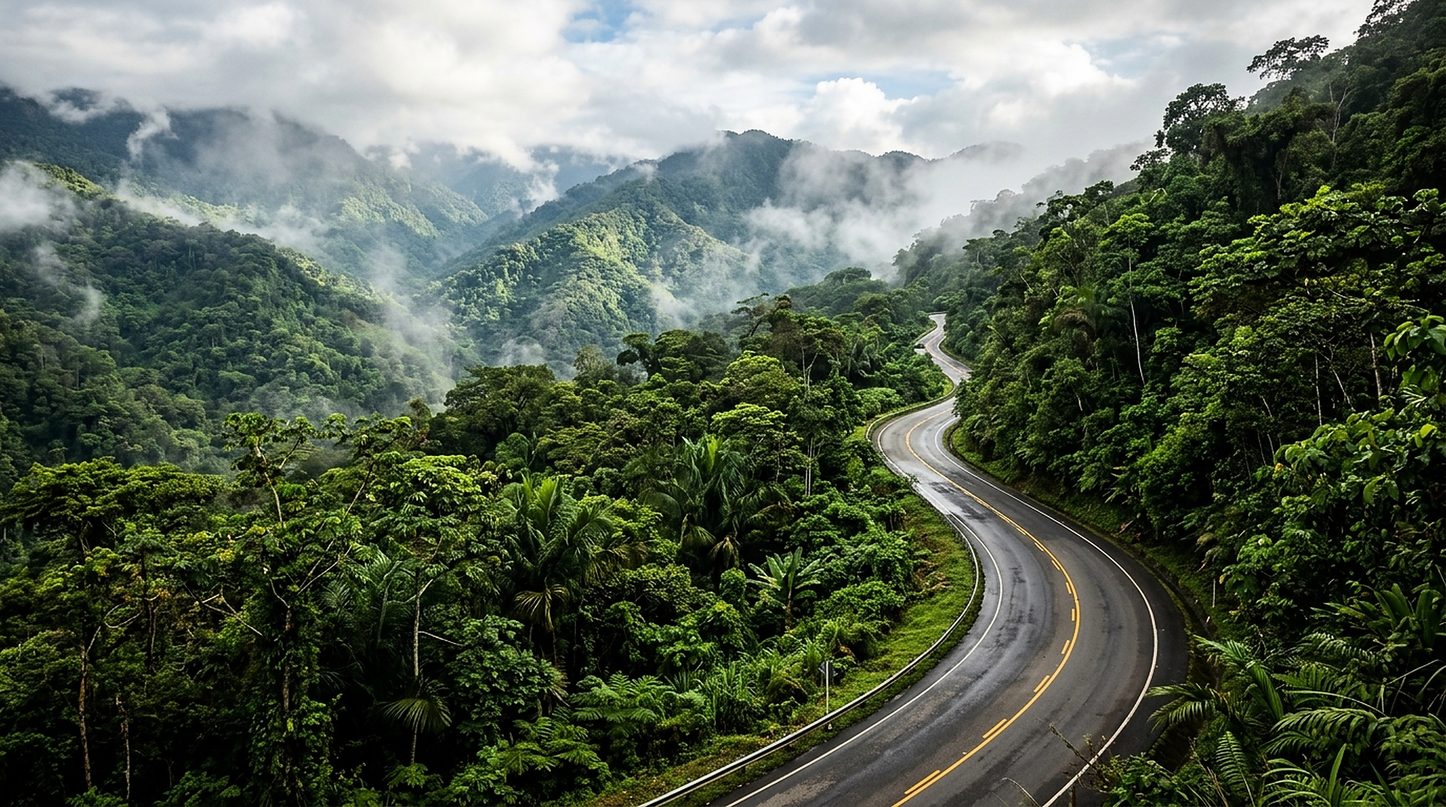
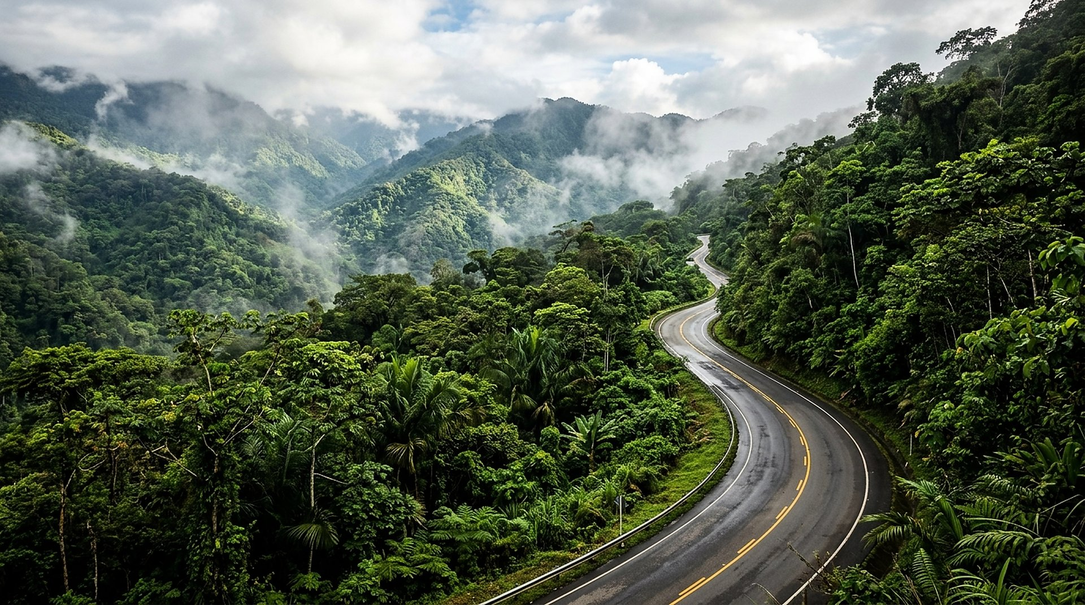
perf: optimize hero LCP image and prioritize catalog initial viewport cards
- Remove unoptimized and quality=100 on hero image; enable Next.js AVIF/WebP image optimization
- Pre-compress master hero image from 2.0MB to 540KB progressive JPEG
- Prioritize only first viewport vehicle cards (top 3 in catalog, top 2 in home) while keeping lazy loading for the rest
- Configure formats: ['image/avif', 'image/webp'] in next.config.ts

diff --git a/components/vehicle/VehicleCard.tsx b/components/vehicle/VehicleCard.tsx
@@ -14,10 +14,11 @@ import { StatusBadge } from '@/components/vehicle/StatusBadge'
 interface VehicleCardProps extends Omit<HTMLAttributes<HTMLDivElement>, 'children'> {
   vehicle: VehicleCardType
   variant?: 'default' | 'featured'
+  priority?: boolean
 }
 
 export const VehicleCard = forwardRef<HTMLDivElement, VehicleCardProps>(
-  ({ vehicle, variant = 'default', className, ...props }, ref) => {
+  ({ vehicle, variant = 'default', priority = false, className, ...props }, ref) => {
     // Currency context for price conversion
     const { currency, rates, isLoading: ratesLoading } = useCurrency()
 
@@ -63,7 +64,7 @@ export const VehicleCard = forwardRef<HTMLDivElement, VehicleCardProps>(
               fill
               sizes="(max-width: 640px) 100vw, (max-width: 1024px) 50vw, 33vw"
               className="object-contain p-2 transition-transform duration-200 group-hover:scale-[1.02]"
-              priority={vehicle.is_featured}
+              priority={priority || vehicle.is_featured}
             />
 
             {/* Badge de tipo de vehículo (Categoría) */}

diff --git a/components/home/TransactionalVehicleCatalog.tsx b/components/home/TransactionalVehicleCatalog.tsx
@@ -63,8 +63,6 @@ export function TransactionalVehicleCatalog({ vehicles }: TransactionalVehicleCa
             alt="Carretera asfaltada sin autos serpenteando en medio de la selva peruana y montañas verdes"
             fill
             priority
-            quality={100}
-            unoptimized
             sizes="100vw"
             className="object-cover object-[center_55%]"
           />
@@ -137,10 +135,11 @@ export function TransactionalVehicleCatalog({ vehicles }: TransactionalVehicleCa
           {/* Grid de Vehículos */}
           {filteredVehicles.length > 0 ? (
             <div className="grid grid-cols-1 sm:grid-cols-2 lg:grid-cols-3 gap-6 lg:gap-8">
-              {filteredVehicles.map((vehicle) => (
+              {filteredVehicles.map((vehicle, index) => (
                 <VehicleCard
                   key={vehicle.id}
                   vehicle={vehicle}
+                  priority={index < 2}
                 />
               ))}
             </div>

diff --git a/components/vehicle/VehicleGrid.tsx b/components/vehicle/VehicleGrid.tsx
@@ -58,11 +58,12 @@ export function VehicleGrid({ vehicles, 'aria-label': ariaLabel }: VehicleGridPr
       initial="hidden"
       animate="show"
     >
-      {vehicles.map((vehicle) => (
+      {vehicles.map((vehicle, index) => (
         <motion.li key={vehicle.id} variants={itemVariants}>
           <VehicleCard
             vehicle={vehicle}
             variant={vehicle.is_featured ? 'featured' : 'default'}
+            priority={index < 3}
           />
         </motion.li>
       ))}

diff --git a/next.config.ts b/next.config.ts
@@ -2,6 +2,7 @@ import type { NextConfig } from "next";
 
 const nextConfig: NextConfig = {
   images: {
+    formats: ['image/avif', 'image/webp'],
     remotePatterns: [
       {
         protocol: 'https',
